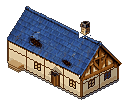
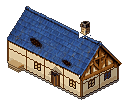
fix: warehouse sets: dormer painted out with the slates along the roof (barn splice unchanged); barn ruins scaled 0.9; _stage_shot breaks on its plot match

diff --git a/tools/dev/ref_convert/warehouse.py b/tools/dev/ref_convert/warehouse.py
@@ -2,18 +2,20 @@
 its crane (the user chose "Adapt the warehouse": no barn is drawn on the four sheets). No AI calls.
 
   barn       HOUSE / farm / "",          footprint 1.3 x 1.5 (TownLayout.BARNS), height 20. The warehouse's gable end
-             and a short stretch of its long side: the long side is cut down (the roof between its dormer and its
-             chimney comes out), the chimney goes (a barn never smokes), a big plank barn door on the gable.
+             and a short stretch of its long side: the long side is cut down (the roof between where its dormer
+             stood and its chimney comes out), the chimney goes (a barn never smokes), a big plank barn door on the
+             gable.
   carpenter  HOUSE / house / carpenter, footprint 2.3 x 1.15 (TownLayout.CARPENTER), height 20. The whole warehouse,
              its long side lengthened by a 13 px slice of roof so it reaches 2.3 cells, its chimney kept (it smokes, as
              the procedural carpenter does), a stack of planks against the long wall. The crane is dropped too: it
              stands outside the gable and would hang over the yard past the plot.
 
-What comes from the sheet: the roof (slates, ridge, rakes, dormer), the chimney and the gable's timber triangle above
-its tie beam. The sheet's walls are hidden behind crates, barrels, a lean-to, a lantern and the crane, and their stone
-door arch is not wanted, so the walls below are drawn clean in flat tones on the game's own iso geometry: a stone
-plinth, a sill, timber posts, plaster panels, a wall plate, doors and windows. The sheet draws at about 2.2:1; the
-roof is stretched to 2:1 (y x 1.11) as it is fitted, and the gable sets the scale (its run equals the gable face's).
+What comes from the sheet: the roof (slates, ridge, rakes; the dormer painted out), the chimney and the gable's timber
+triangle above its tie beam. The sheet's walls are hidden behind crates, barrels, a lean-to, a lantern and the crane,
+and their stone door arch is not wanted, so the walls below are drawn clean in flat tones on the game's own iso
+geometry: a stone plinth, a sill, timber posts, plaster panels, a wall plate, doors and windows. The sheet draws at
+about 2.2:1; the roof is stretched to 2:1 (y x 1.11) as it is fitted, and the gable sets the scale (its run equals the
+gable face's).
 
 Light from the left: the sheet lights from the right (the chimney's right face and the gable are its lit sides), so
 the barn (gable on its left face, the long side on its right) is the sheet mirrored. The carpenter's plot is wide (its
@@ -22,8 +24,8 @@ is relit: roof up, gable triangle down, chimney mirrored in place, and its walls
 
 States: intact, damaged (holes through the roof slates with charred rims, a scorch up the wall, the door hanging off
 one hinge), ruins (the approved batch 2 ruins of the closest set, placed on this plot: townhouse_b's for the barn,
-whose blue slate debris matches, unscaled and centred; the workshop's for the carpenter, the procedural carpenter's own
-art, scaled 0.85). The collapse is the engine's sink. No idle strip.
+whose blue slate debris matches, scaled 0.9 and centred; the workshop's for the carpenter, the procedural carpenter's
+own art, scaled 0.85). The collapse is the engine's sink. No idle strip.
 
 Usage (from anywhere):
   python tools/dev/ref_convert/warehouse.py [all | barn | carpenter] [--out <scratch dir>] [--debug <dir>]
@@ -55,7 +57,11 @@ STRETCH = 0.5 / AXIS_K                    # y stretch: the sheet's ~2.2:1 to the
 ROOF_POLY = [(93, 660), (134, 590), (276, 650), (229, 717), (98, 657)]
 GABLE_POLY = [(228, 717), (270, 653), (311, 690), (305, 695), (297, 696), (234, 721)]
 CHIMNEY = (227, 610, 252, 647)
-DORMER_U = 145.0                          # the roof slice cut for the barn starts past the dormer
+DORMER_U = 145.0                          # the barn's roof slice is cut from here (where the painted-out dormer stood)
+# The sheet's dormer (a crescent of blue flashing that reads as a stain at sprite size): painted out with the slates
+# DORMER_SHIFT along the roof (whole courses, no seam), before anything else.
+DORMER = (141, 635, 169, 669)
+DORMER_SHIFT = (40, 18)
 CARP_SLICE_U = 168.0                      # the carpenter's added slice of roof is copied from here back
 PAD = 6
 
@@ -79,7 +85,7 @@ CHAR = np.array([40, 30, 26.0])
 
 SETS = {
     # name: footprint, height, seed, kind, role, tag, ruins source, ruins scale
-    "barn": ([1.3, 1.5], 20, 70, "HOUSE", "farm", "", "townhouse_b", 1.0),
+    "barn": ([1.3, 1.5], 20, 70, "HOUSE", "farm", "", "townhouse_b", 0.9),
     "carpenter": ([2.3, 1.15], 20, 71, "HOUSE", "house", "carpenter", "workshop", 0.85),
 }
 WALL_H = {"barn": 23, "carpenter": 21}    # px from the ground to the eave, in the sprite
@@ -102,6 +108,9 @@ def slab(chimney=True, relit=False):
     """The sheet's roof, chimney (or not) and gable triangle; everything else cleared. relit: lit from the left in the
     sheet's orientation (the roof's front slope up, the gable down, the chimney mirrored in place)."""
     a = np.array(Image.open(C1).convert("RGBA").crop(BOX)).astype(float)
+    x0, y0, x1, y1 = DORMER[0] - BOX[0], DORMER[1] - BOX[1], DORMER[2] - BOX[0], DORMER[3] - BOX[1]
+    sx, sy = DORMER_SHIFT
+    a[y0:y1, x0:x1] = a[y0 + sy:y1 + sy, x0 + sx:x1 + sx]
     h, w = a.shape[:2]
     rgb = a[..., :3]
     blue = (a[..., 3] > 0) & (rgb[..., 2] > rgb[..., 0] + 12) & (rgb[..., 2] > 55)
